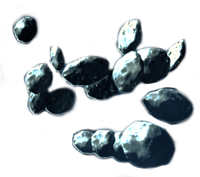
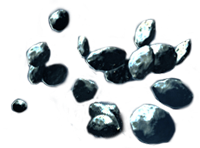
some attempts at asteroids

diff --git a/stylesheets/parallax_demo.css b/stylesheets/parallax_demo.css
@@ -39,12 +39,13 @@ h1, h3 { margin-bottom:0px; }
 
 #main { height:auto; width:100%; margin-bottom:100px; }
 .main_slides { position:absolute; width:700px; top:100px; left:15%; margin-bottom:50px; padding:0px; overflow:hidden; z-index:80; }
-.main_slide { width:700px; height:600px; }
+.main_slide { width:700px; height:700px; }
 .main_slide .inner { padding:20px 20px 0px 20px; margin-bottom:20px; width:660px; height:560px; border-radius:6px; }
 
 .main_slide h1 { font-size:40px; text-indent:0px; display:block; float:none; opacity:1.0; color:#fc0; font-weight:normal; margin:0px 0px 10px 0px; font-family: 'Puritan', sans-serif; }
-.main_slide h1, .main_slide h2,.main_slide p { background:rgba(0,0,0,0.7); padding:20px 20px; margin:0px 0px 15px 0px; }
+.main_slide h1, .main_slide h2,.main_slide p,.main_slide .sign_up_form { background:rgba(0,0,0,0.7); padding:20px 20px; margin:0px 0px 15px 0px; }
 .main_slide p { line-height:2; display:block; font-size:15px; }
+.main_slide .sign_up_form { width:100%; height:300px; }
 #welcome.main_slide p { font-size:20px; }
 
 .slideshow { width:500px; height:300px; background:#777; margin:0px 0px 0px 0px; padding:0px 0px 0px 0px; }
@@ -54,21 +55,31 @@ h1, h3 { margin-bottom:0px; }
 .space { position:absolute; width:100%; height:2000px; z-index:1; background:#000 url(../images/bg.jpg) 50% -120px no-repeat; left:0; }
 .planet2 { z-index:15; top:100px; left:-50px; width:525px; height:432px; background:transparent url(../images/new_planet2.png) 0 0 no-repeat; }
 .planet {z-index:4; top:300px; left:600px; width:628px; height:380px; background:transparent url(../images/new_planet.png) 0 0 no-repeat}
-.asteroids { z-index:50; top:500px; left:600px; width:650px; height:319px; background:transparent url(../images/new_asteroids.png) no-repeat; overflow:hidden; }
-.asteroids2 { z-index:50; top:500px; left:100px; width:500px; height:417px; background:transparent url(../images/new_asteroids2.png) no-repeat; overflow:hidden; }
-.asteroids img { float:right; }
+.asteroids { z-index:50; top:500px; left:600px; width:650px; height:319px; background:transparent url(../images/new_asteroids4.png) no-repeat; overflow:hidden; }
+.asteroids2 { z-index:50; top:500px; left:100px; width:500px; height:417px; background:transparent url(../images/new_asteroids3.png) no-repeat; overflow:hidden; }
+.asteroids3 { z-index:70; top:500px; left:100px; width:500px; height:417px; background:transparent url(../images/asteroid1.png) no-repeat; overflow:hidden; }
+.asteroids4 { z-index:70; top:500px; left:100px; width:500px; height:417px; background:transparent url(../images/asteroid2.png) no-repeat; overflow:hidden; }
+.asteroids5 { z-index:70; top:500px; left:100px; width:500px; height:417px; background:transparent url(../images/asteroid3.png) no-repeat; overflow:hidden; }
+.asteroids6 { z-index:70; top:500px; left:100px; width:500px; height:417px; background:transparent url(../images/asteroid4.png) no-repeat; overflow:hidden; }
+.asteroids7 { z-index:70; top:500px; left:100px; width:500px; height:417px; background:transparent url(../images/asteroid5.png) no-repeat; overflow:hidden; }
+
 .stardust { z-index:2; top:150px; left:-100px; width:771px; height:558px; background:transparent url(../images/stardust.png) 0 0 no-repeat; }
 
 .bg { width:100%; height:100%; background-position: 0% 0%; top:0px !important; left:0px !important; background-attachment:fixed; }
 .planet2.bg { background-position: 5% 500px; }
 .planet.bg { background-position: 85% 300px; }
-.asteroids.bg { background-position: 60% 700px; }
-.asteroids2.bg { background-position: 5% 800px; }
+.asteroids.bg { background-position: 60% 600px; }
+.asteroids2.bg { background-position: 10% 800px; }
+.asteroids3.bg { background-position: 15% 900px; }
+.asteroids4.bg { background-position: 25% 750px; }
+.asteroids5.bg { background-position: 45% 775px; }
+.asteroids6.bg { background-position: 95% 550px; }
+.asteroids7.bg { background-position: 80% 650px; }
 .stardust.bg { background-position: 20% 0px; }
 .space.bg { position:fixed; }
 
 
-#footer { position:absolute; top:3000px; background: transparent url(../images/earth.png) 0px 50px no-repeat; width:960px; height:150px; z-index:100; }
+#footer { position:absolute; top:3500px; background: transparent url(../images/earth.png) 0px 50px no-repeat; width:960px; height:150px; z-index:100; }
 #footer .social { margin:20px auto; width: 80px; height:25px; }
 #footer .social_icons { background: transparent url(../images/social.png) no-repeat; text-indent: -9999px; width:25px; display: block; float: left; margin-right: 10px; padding-top: 8px; }
 #footer .social_icons.twitter { background-position: -2px -2px !important; margin-left:10px; }

diff --git a/javascripts/jquery.imgpreload.js b/javascripts/jquery.imgpreload.js
@@ -1,0 +1,149 @@
+/* v1.2 */
+/*
+
+Copyright (c) 2009 Dimas Begunoff, http://www.farinspace.com
+
+https://github.com/farinspace/jquery.imgpreload
+
+Licensed under the MIT license
+http://en.wikipedia.org/wiki/MIT_License
+
+Permission is hereby granted, free of charge, to any person
+obtaining a copy of this software and associated documentation
+files (the "Software"), to deal in the Software without
+restriction, including without limitation the rights to use,
+copy, modify, merge, publish, distribute, sublicense, and/or sell
+copies of the Software, and to permit persons to whom the
+Software is furnished to do so, subject to the following
+conditions:
+
+The above copyright notice and this permission notice shall be
+included in all copies or substantial portions of the Software.
+
+THE SOFTWARE IS PROVIDED "AS IS", WITHOUT WARRANTY OF ANY KIND,
+EXPRESS OR IMPLIED, INCLUDING BUT NOT LIMITED TO THE WARRANTIES
+OF MERCHANTABILITY, FITNESS FOR A PARTICULAR PURPOSE AND
+NONINFRINGEMENT. IN NO EVENT SHALL THE AUTHORS OR COPYRIGHT
+HOLDERS BE LIABLE FOR ANY CLAIM, DAMAGES OR OTHER LIABILITY,
+WHETHER IN AN ACTION OF CONTRACT, TORT OR OTHERWISE, ARISING
+FROM, OUT OF OR IN CONNECTION WITH THE SOFTWARE OR THE USE OR
+OTHER DEALINGS IN THE SOFTWARE.
+
+*/
+
+if ('undefined' != typeof jQuery)
+{
+	(function($){
+
+		// extend jquery (because i love jQuery)
+		$.imgpreload = function (imgs,settings)
+		{
+			settings = $.extend({},$.fn.imgpreload.defaults,(settings instanceof Function)?{all:settings}:settings);
+
+			// use of typeof required
+			// https://developer.mozilla.org/En/Core_JavaScript_1.5_Reference/Operators/Special_Operators/Instanceof_Operator#Description
+			if ('string' == typeof imgs) { imgs = [imgs]; }
+
+			var loaded = [];
+
+			var t = imgs.length;
+
+			for (var i=0; i<t; i++)
+			{
+				var img = new Image();
+
+				$(img).bind('load error', function(e)
+				{
+					loaded.push(this);
+
+					$.data(this, 'loaded', ('error'==e.type)?false:true);
+					
+					if (settings.each instanceof Function) { settings.each.call(this); }
+
+					if (loaded.length>=t && settings.all instanceof Function) { settings.all.call(loaded); }
+				});
+
+				img.src = imgs[i];
+			}
+		};
+
+		$.fn.imgpreload = function(settings)
+		{
+			var urls = [];
+
+			this.each(function()
+			{
+				urls.push($(this).attr('src'));
+			});
+
+			$.imgpreload(urls,settings);
+
+			return this;
+		};
+
+		$.fn.imgpreload.defaults =
+		{
+			each: null // callback invoked when each image in a group loads
+			, all: null // callback invoked when when the entire group of images has loaded
+		};
+
+	})(jQuery);
+}
+
+/*
+
+	Usage:
+
+	$('#content img').imgpreload(function()
+	{
+		// this = array of dom image objects
+		// callback executes when all images are loaded
+	});
+
+	$('#content img').imgpreload
+	({
+		each: function()
+		{
+			// this = dom image object
+			// check for success with: $(this).data('loaded')
+			// callback executes when each image loads
+		},
+		all: function()
+		{
+			// this = array of dom image objects
+			// check for success with: $(this[i]).data('loaded')
+			// callback executes when all images are loaded
+		}
+	});
+
+	$.imgpreload('/images/a.gif',function()
+	{
+		// this = array of dom image objects
+		// check for success with: $(this[i]).data('loaded')
+		// callback
+	});
+
+	$.imgpreload(['/images/a.gif','/images/b.gif'],function()
+	{
+		// this = array of dom image objects
+		// check for success with: $(this[i]).data('loaded')
+		// callback executes when all images are loaded
+	});
+
+	$.imgpreload(['/images/a.gif','/images/b.gif'],
+	{
+		each: function()
+		{
+			// this = dom image object
+			// check for success with: $(this).data('loaded')
+			// callback executes on every image load
+		},
+		all: function()
+		{
+			// this = array of dom image objects
+			// check for success with: $(this[i]).data('loaded')
+			// callback executes when all images are loaded
+		}
+	});
+
+*/

diff --git a/javascripts/page.js b/javascripts/page.js
@@ -131,22 +131,84 @@ function SpaceScroller () {
     return targetable_h;
 
   };
-}
+};
+
+function AsteroidField () {
+  
+  this.target = false;
+  this.asteroids = [];
+  this.num    = 10+Math.ceil(Math.random()*10);
+
+  this.initialize = function( target ) {
+    var ast = this;
+    ast.target = $(target);
+    ast.target_w = ast.target.width();
+    ast.target_h = ast.target.height();
+    ast.asteroids = $.map( $(".asteroid", target), function(el,idx){ return $(el); } );
+    ast.initialize_asteroids(); 
+  };
+
+  this.initialize_asteroids = function() {
+
+    var ast = this;
+    
+    for (var i=this.asteroids.length; i < this.num; i++) {
+
+      var rand     = Math.round(Math.random()*(this.asteroids.length-1)),
+          asteroid = this.asteroids[rand],
+      new_asteroid = asteroid.clone().appendTo( ast.target );
+
+    }
+
+    this.asteroids = $.map( $(".asteroid", ast.target), function(el,idx){ return $(el); } );
+
+    console.log(this.asteroids);
+
+    $.each(this.asteroids, function(idx, el){
+
+      var rand_s  = (2 + Math.round(Math.random()*3))/10,
+          rand_t  = Math.round(Math.random()*(ast.target_h - el.height())),
+          rand_l  = Math.round(Math.random()*(ast.target_w/2)),
+          rand_z  = Math.round(Math.random()*ast.asteroids.length),
+          rand_sp = 30000 + Math.round(Math.random()*30000);
+
+      console.log(rand_s);
+
+      el.css({
+        width : el.width()*rand_s,
+        height : el.height()*rand_s,
+        top : rand_t,
+        left : rand_l,
+        zIndex : rand_z,
+      }).
+      animate({ left : -rand_l}, rand_sp).
+      show();
+
+    });
+
+  };
+
+  this.animate_asteroids = function() {
+    
+  };
+
+};
 
 
 $(function(){
 	
-  var slides 	    = $(".main_slide"), 
-  	slides_list   = $(".main_slides"),
-  	parallax_cont = $("body"),
-  	anchors       = $(".bttn"),
-    scroller      = new SpaceScroller;
+  var slides 	     = $(".main_slide"), 
+  	slides_list    = $(".main_slides"),
+  	parallax_cont  = $("body"),
+  	anchors        = $(".bttn"),
+    scroller       = new SpaceScroller,
+    asteroid_field = new AsteroidField;
   
   parallax_cont.parallax({ 
     targets    : ".parallax_target", 
     highest_z  : 99, 
     lowest_z   : 1, 
-    force_height : 3000 
+    force_height : 3500 
   });
 
   scroller.initialize("#nav", ".main_slide");
@@ -180,6 +242,8 @@ $(function(){
     }
 
   }
+
+  //asteroid_field.initialize( $("#asteroids") );
 
   positionSlidesAndNav();
 

diff --git a/index.html b/index.html
@@ -62,6 +62,11 @@
   <div class="parallax_target bg planet2"></div>
   <div class="parallax_target bg asteroids"></div>
   <div class="parallax_target bg asteroids2"></div>
+  <div class="parallax_target bg asteroids3"></div>
+  <div class="parallax_target bg asteroids4"></div>
+  <div class="parallax_target bg asteroids5"></div>
+  <div class="parallax_target bg asteroids6"></div>
+  <div class="parallax_target bg asteroids7"></div>
   <div class="parallax_target bg stardust"></div>
   <div class="parallax_target bg planet"></div>
 
@@ -117,6 +122,7 @@
       <div class="inner">
         <h2>Sign Up for Free</h2>
         <p>It's free, infinitely!</p>
+        <div class="sign_up_form"></div>
       </div>
     </li>
   </ul>
@@ -137,6 +143,7 @@
 <script language="Javascript" src="javascripts/jquery.ui.position.js"></script>
 <script language="Javascript" src="javascripts/jquery.ba-throttle-debounce.js"></script>
 <script language="Javascript" src="javascripts/jquery.parallax.js"></script>
+<script language="Javascript" src="javascripts/jquery.imgpreload.js"></script>
 <script language="Javascript" src="javascripts/page.js"></script>
 
 </body>
